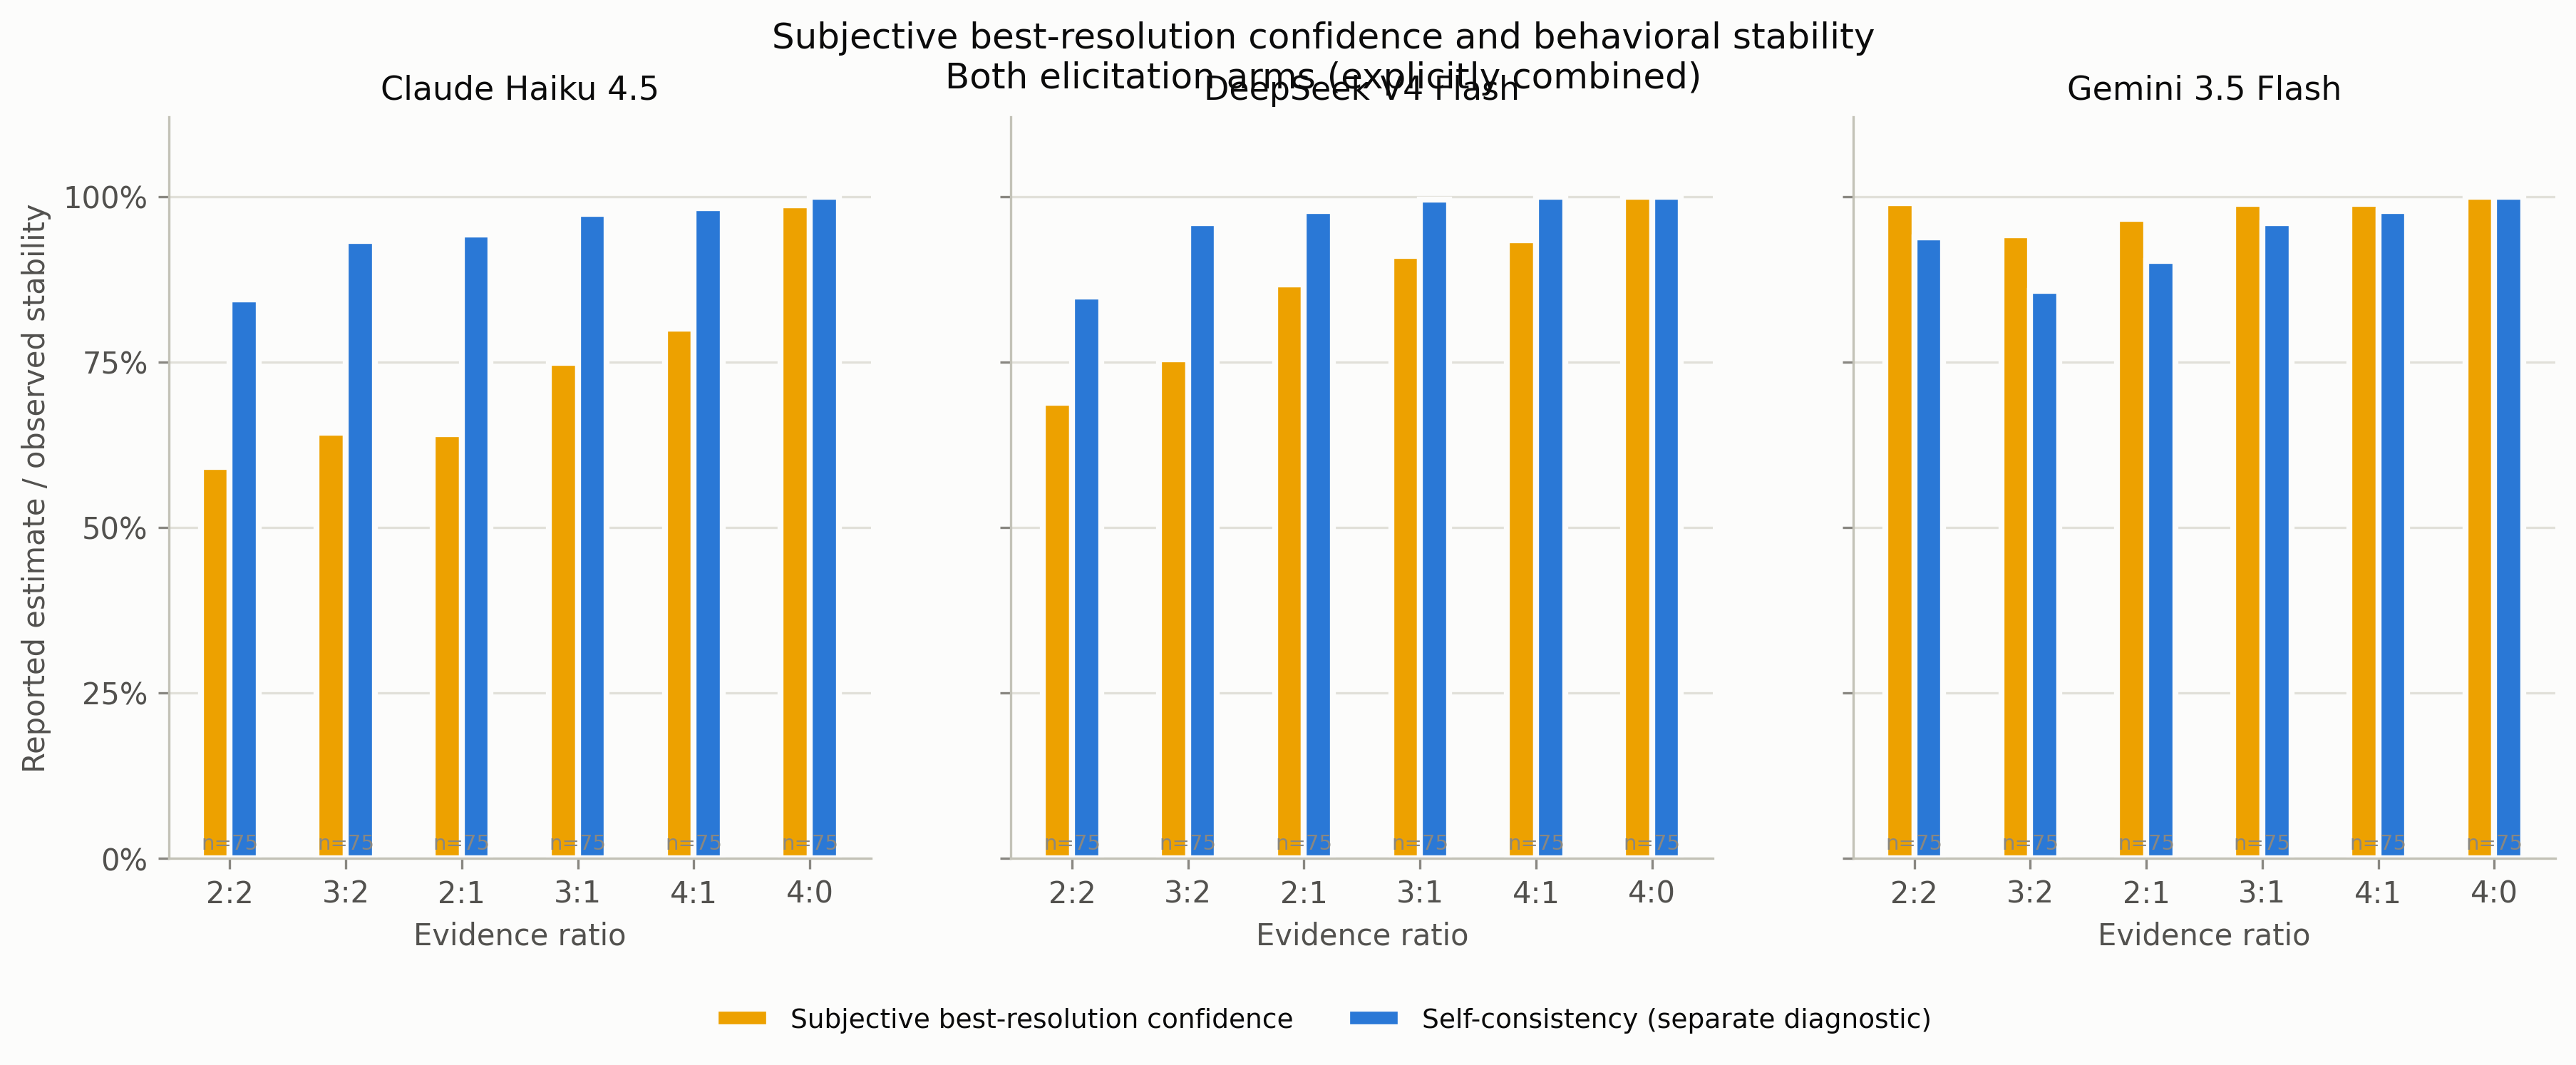
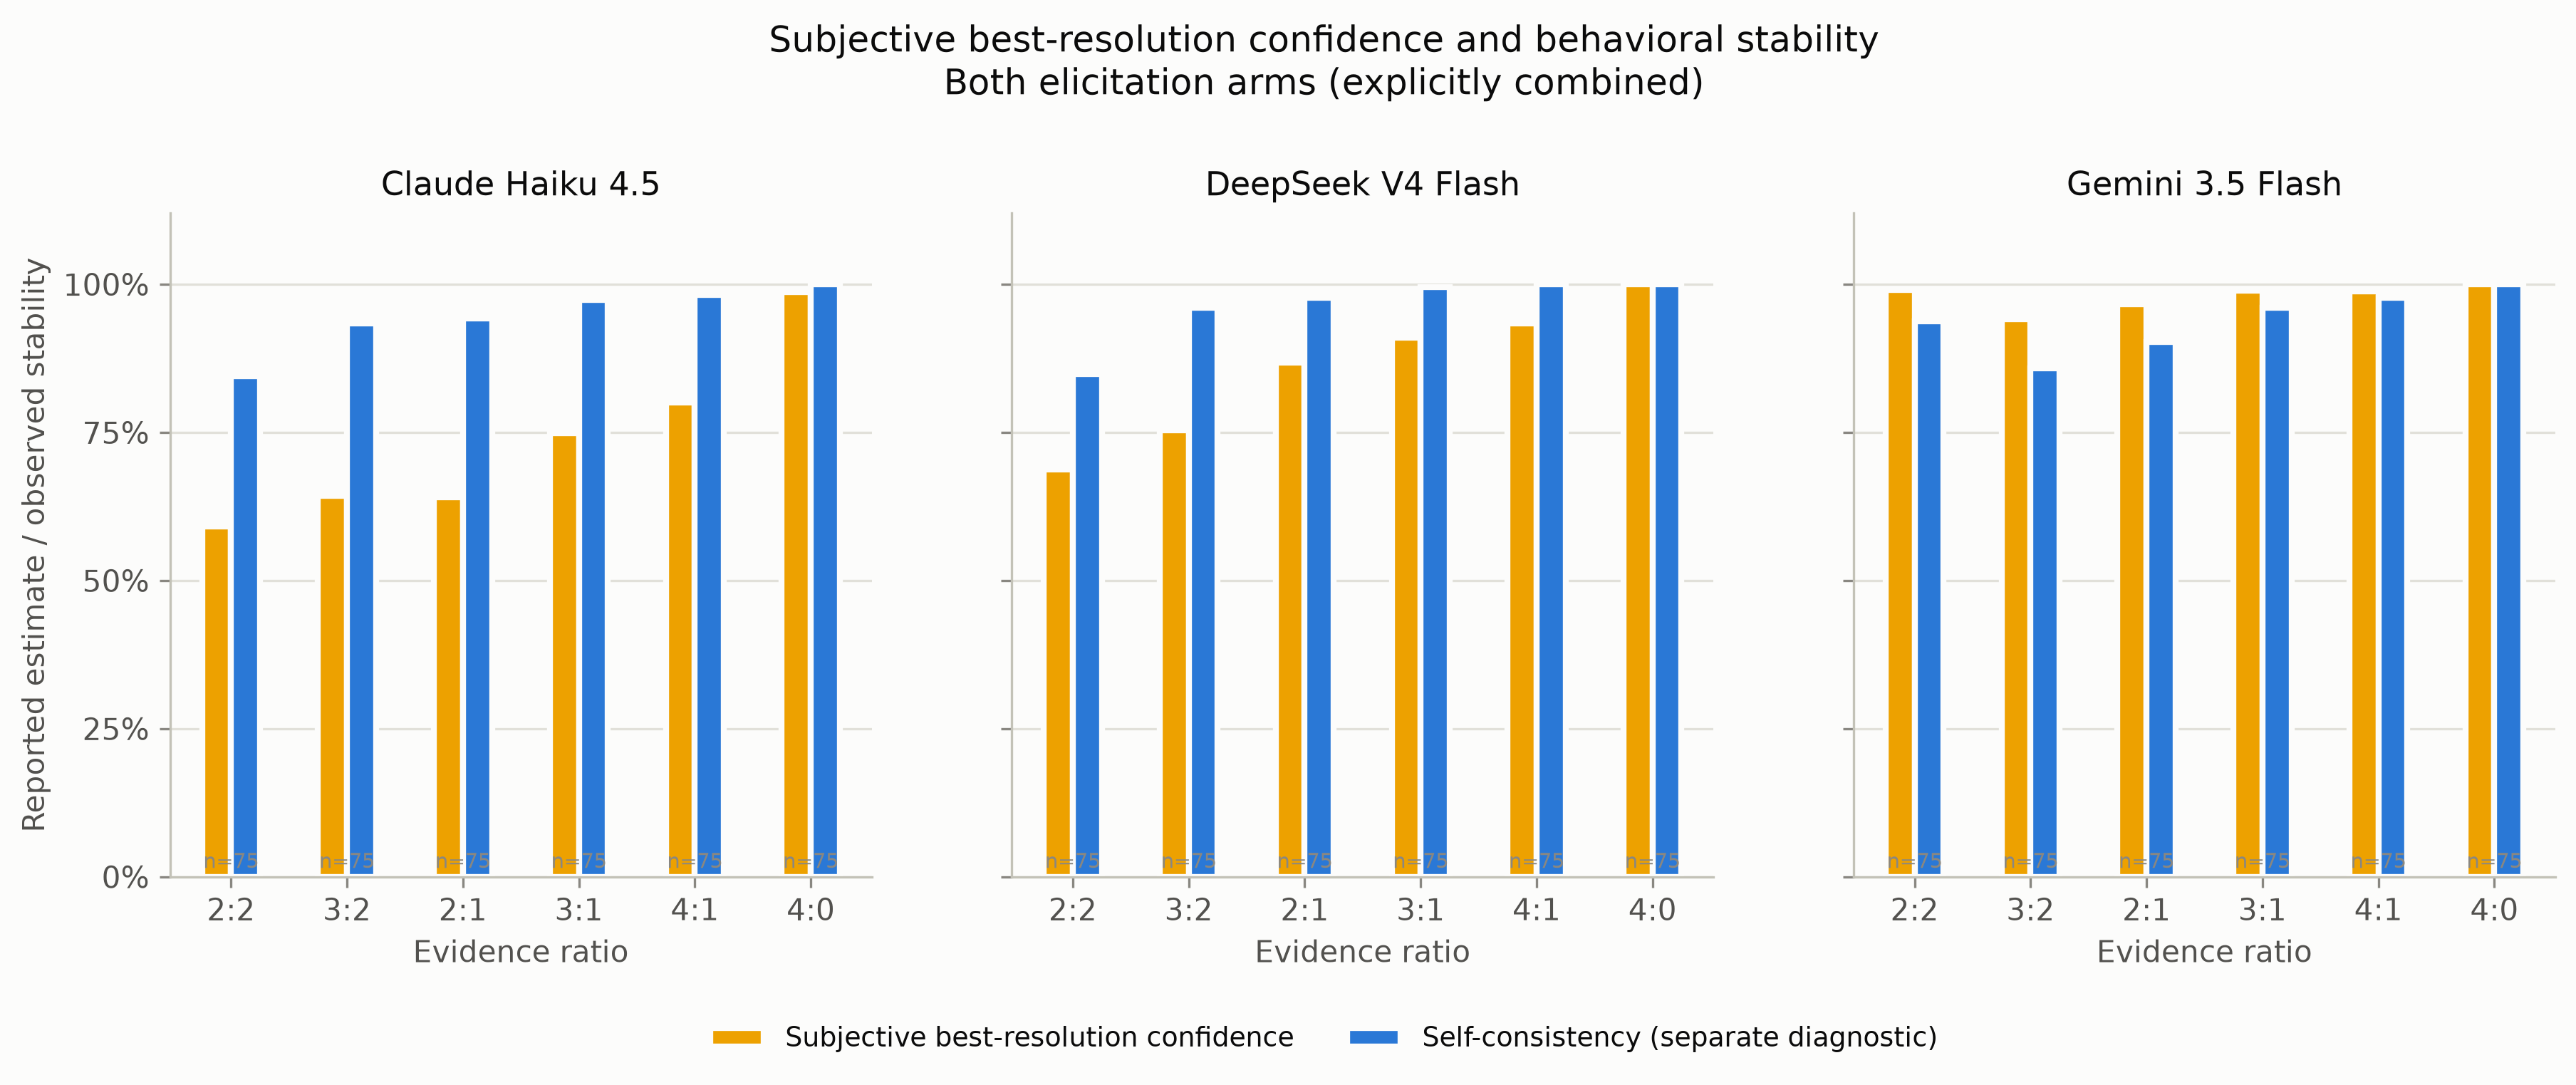
Fix agreement chart title layout

diff --git a/visualizations/plot_agreement.py b/visualizations/plot_agreement.py
@@ -78,10 +78,17 @@ def main():
     handles, labels = axes[0][0].get_legend_handles_labels()
     fig.legend(handles, labels, loc="upper center", ncol=2,
                bbox_to_anchor=(0.5, -0.02), fontsize=9)
+    # Reserve a dedicated title band so the two-line figure title never
+    # collides with the center panel title. Keep the canvas explicitly opaque
+    # for consistent rendering in dark-background PDF/image viewers.
+    fig.subplots_adjust(top=0.80)
+    fig.patch.set_facecolor(SURFACE)
+    fig.patch.set_alpha(1.0)
     fig.suptitle(
         "Subjective best-resolution confidence and behavioral stability\n"
         f"{arm_display_label(df)}",
         fontsize=12,
+        y=1.0,
     )
     save_figure(fig, args, "fig5_agreement.png")
 

diff --git a/UPDATES.md b/UPDATES.md
@@ -510,3 +510,18 @@ tests/, results/conditions_final_standard_salvaged.csv, results/run_final_standa
 results/salvage_standard_manifest.json, results/analysis_final_standard_salvaged/, UPDATES.md
 Status: Retained 1,085 valid conditions and recovered 265; all 1,350 conditions and 4,050
 terminal samples pass strict validation. Original partial CSVs and hashes remain unchanged.
+
+## [Jul 18, 7:13 PM] — Kartigan
+Committed: Not yet — fixed the agreement chart title spacing and opaque export.
+Files: visualizations/plot_agreement.py, visualizations/figures/fig5_agreement.png,
+UPDATES.md
+Status: Regenerated from the final salvaged CSV with unchanged data and bars; the title no
+longer overlaps the model labels, the canvas is fully opaque, and all other tracked figures
+remain unchanged.
+
+## [Jul 18, 7:17 PM] — Kartigan
+Committed: Fixed the agreement chart title overlap and ensured an opaque export.
+Files: visualizations/plot_agreement.py, visualizations/figures/fig5_agreement.png,
+UPDATES.md
+Status: Figure 5 was regenerated from the final salvaged condition CSV with unchanged data;
+the title and model labels no longer collide, and all other tracked figures remain unchanged.